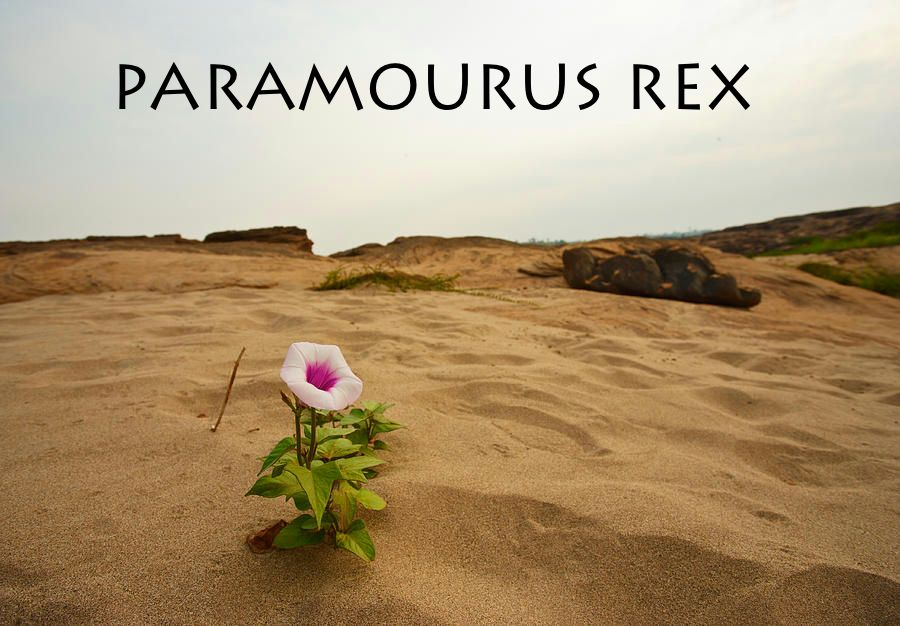
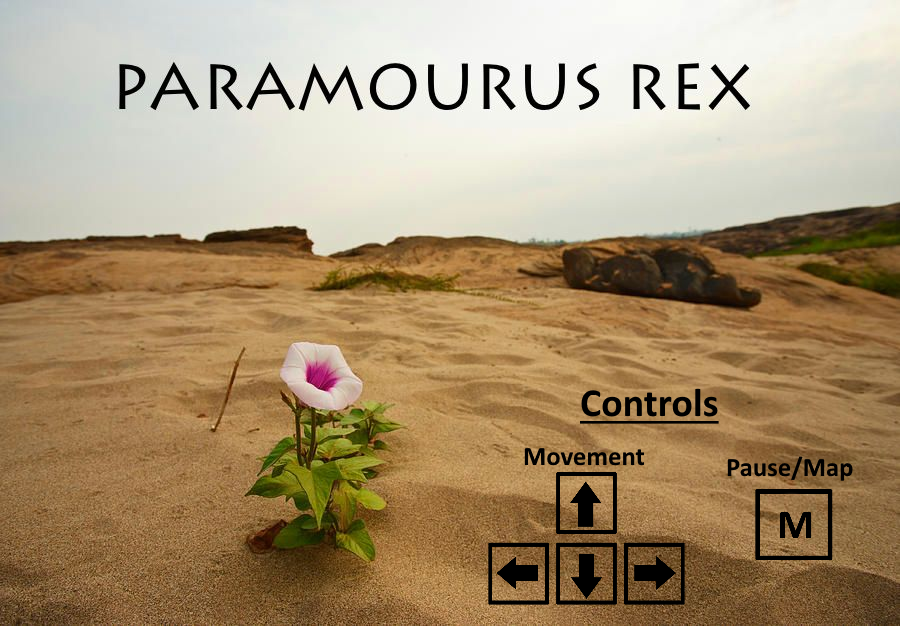
Controls added

Changed region(s): [[0.5289, 0.607, 0.8089, 0.9712], [0.8089, 0.7284, 0.9644, 0.9105]]

diff --git a/src/TitleView.cpp b/src/TitleView.cpp
@@ -49,7 +49,8 @@ void TitleView::Create(const char* resource) {
     for (pugi::xml_attribute attr = tools.first_attribute(); attr; attr = attr.next_attribute()) {
         if (!strcmp(attr.name(), "Background")) {
             background_texture.loadFromFile(("./assets/backgrounds/" + (std::string)attr.value()).c_str());
-            background = sf::Sprite(background_texture, sf::IntRect(0, 0, Configuration::getWindowWidth(), Configuration::getWindowHeight()));
+            background = sf::Sprite(background_texture, sf::IntRect(0, 0, background_texture.getSize().x, background_texture.getSize().y));
+		background.setScale(1.0*Configuration::getWindowWidth()/background_texture.getSize().x, 1.0*Configuration::getWindowHeight()/background_texture.getSize().y);	
             background.setPosition(sf::Vector2f(0,0));
         }
 	 else if (!strcmp(attr.name(), "Font")) {
